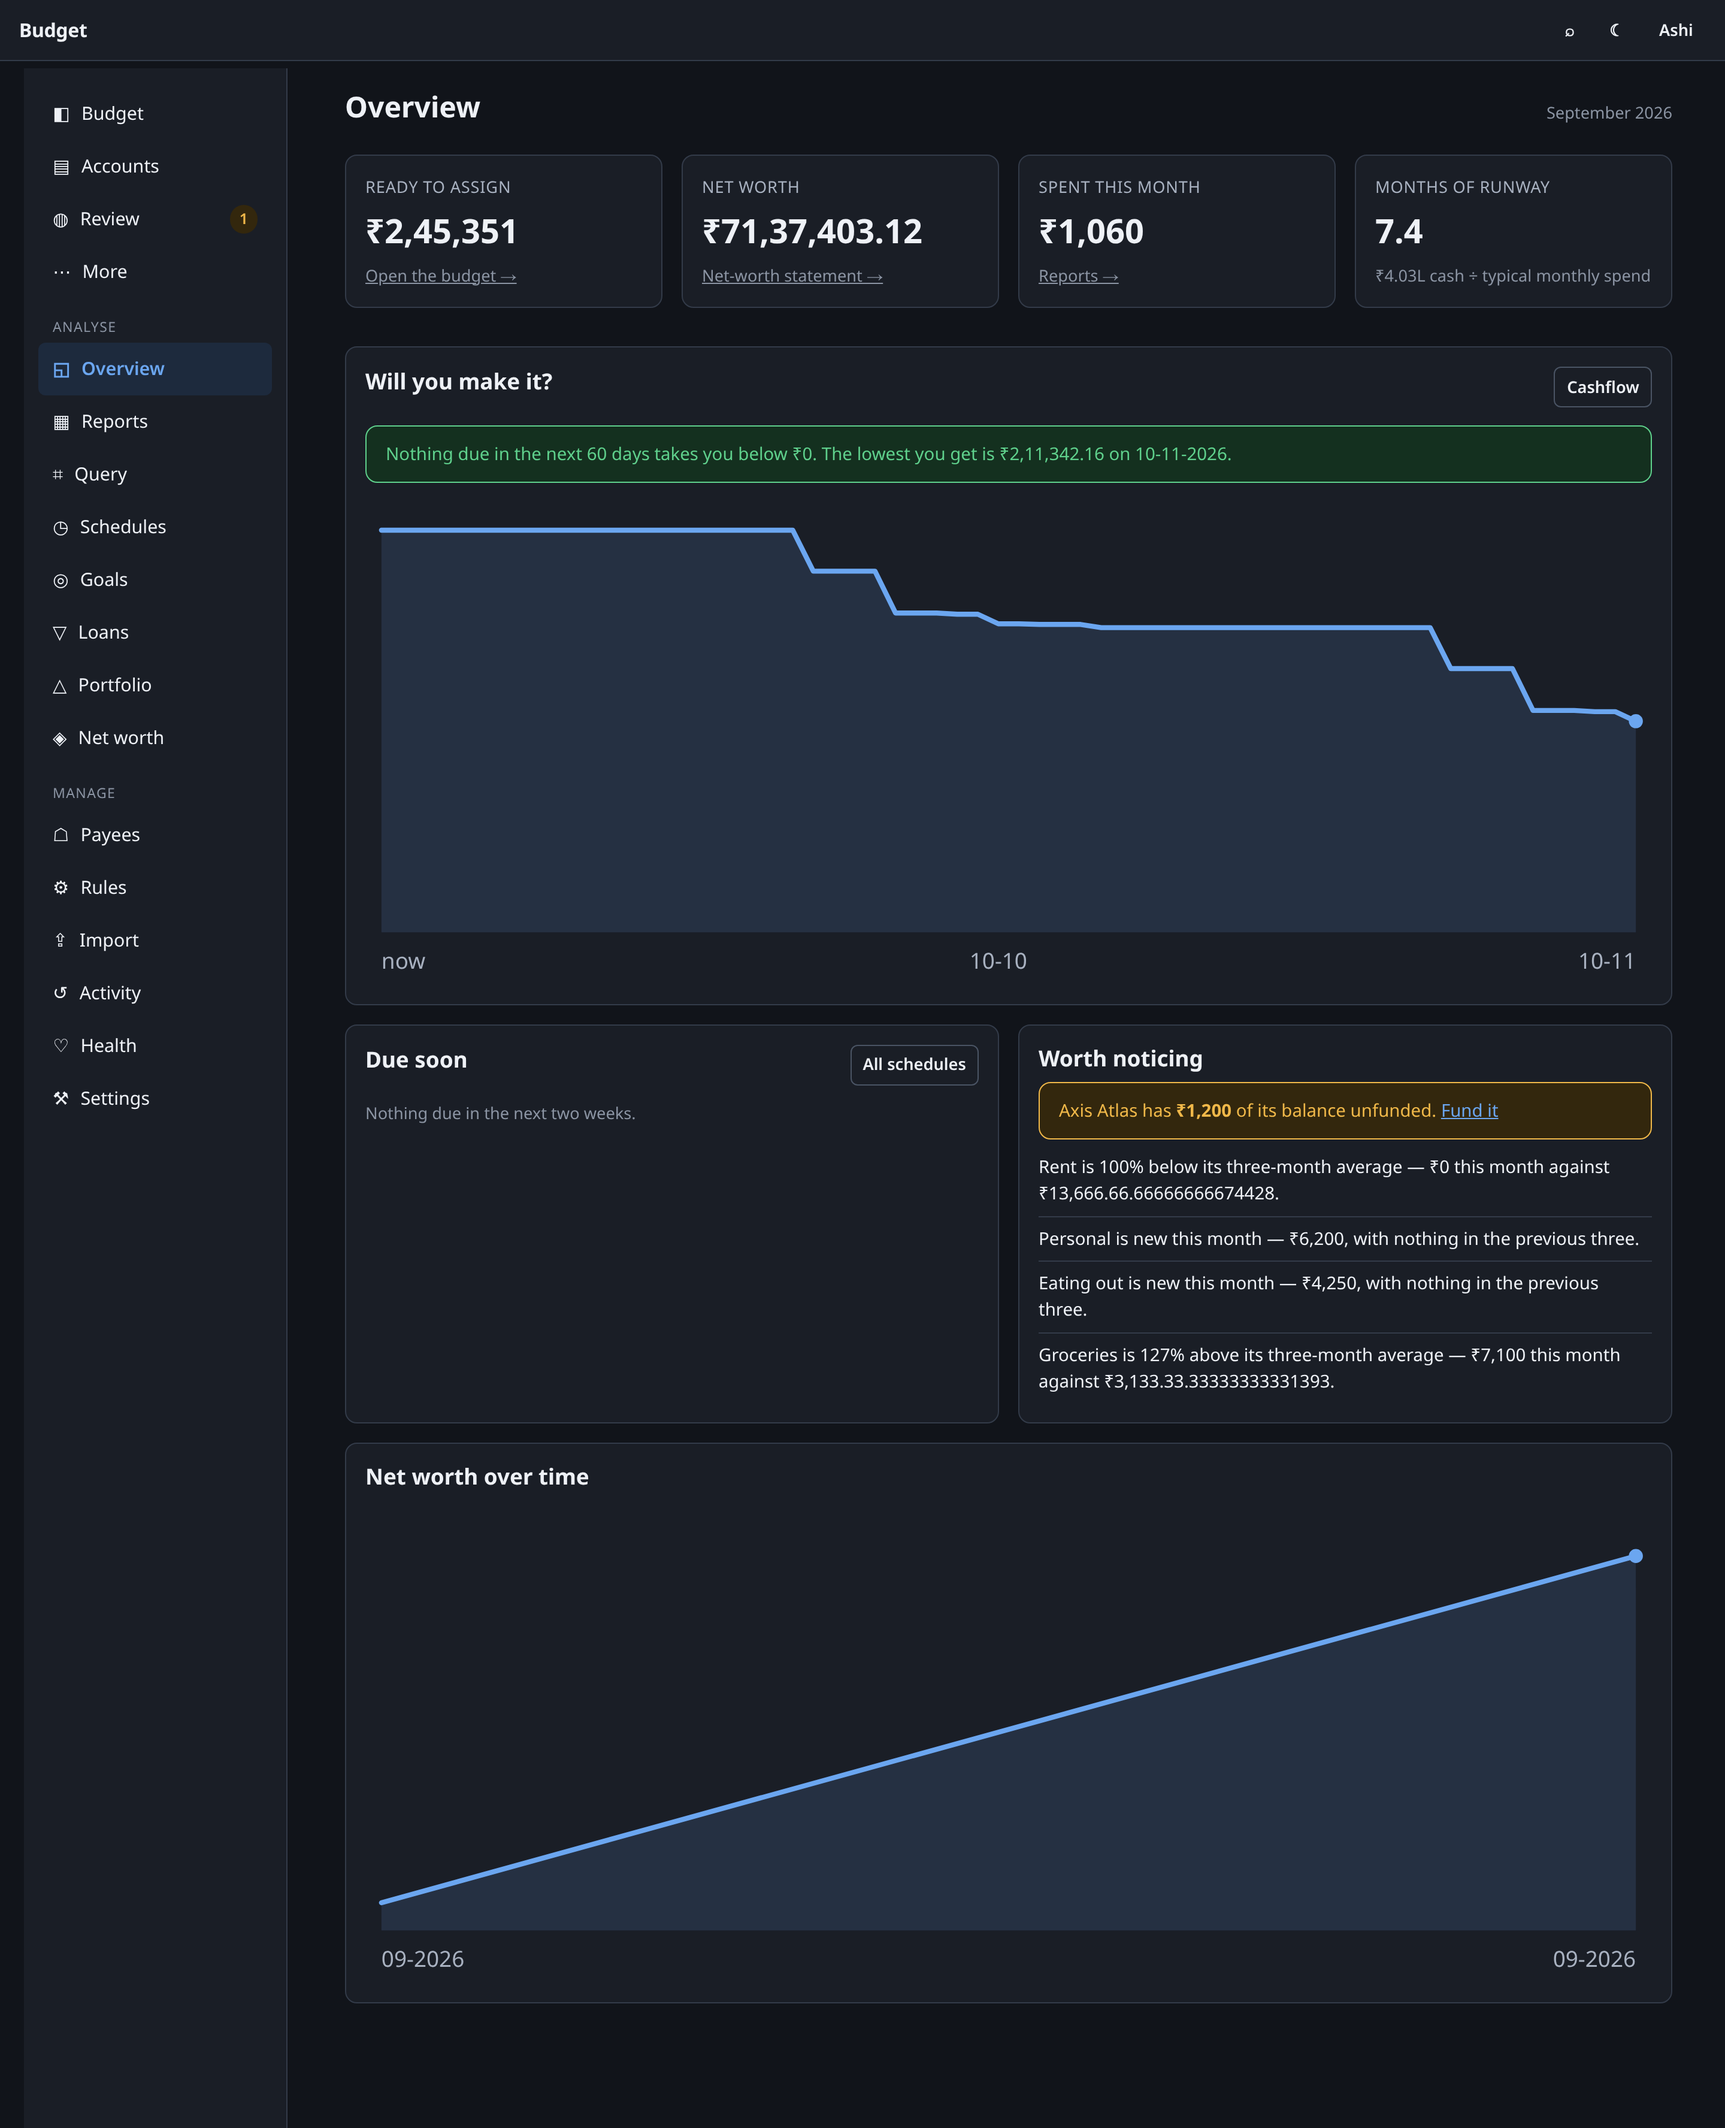
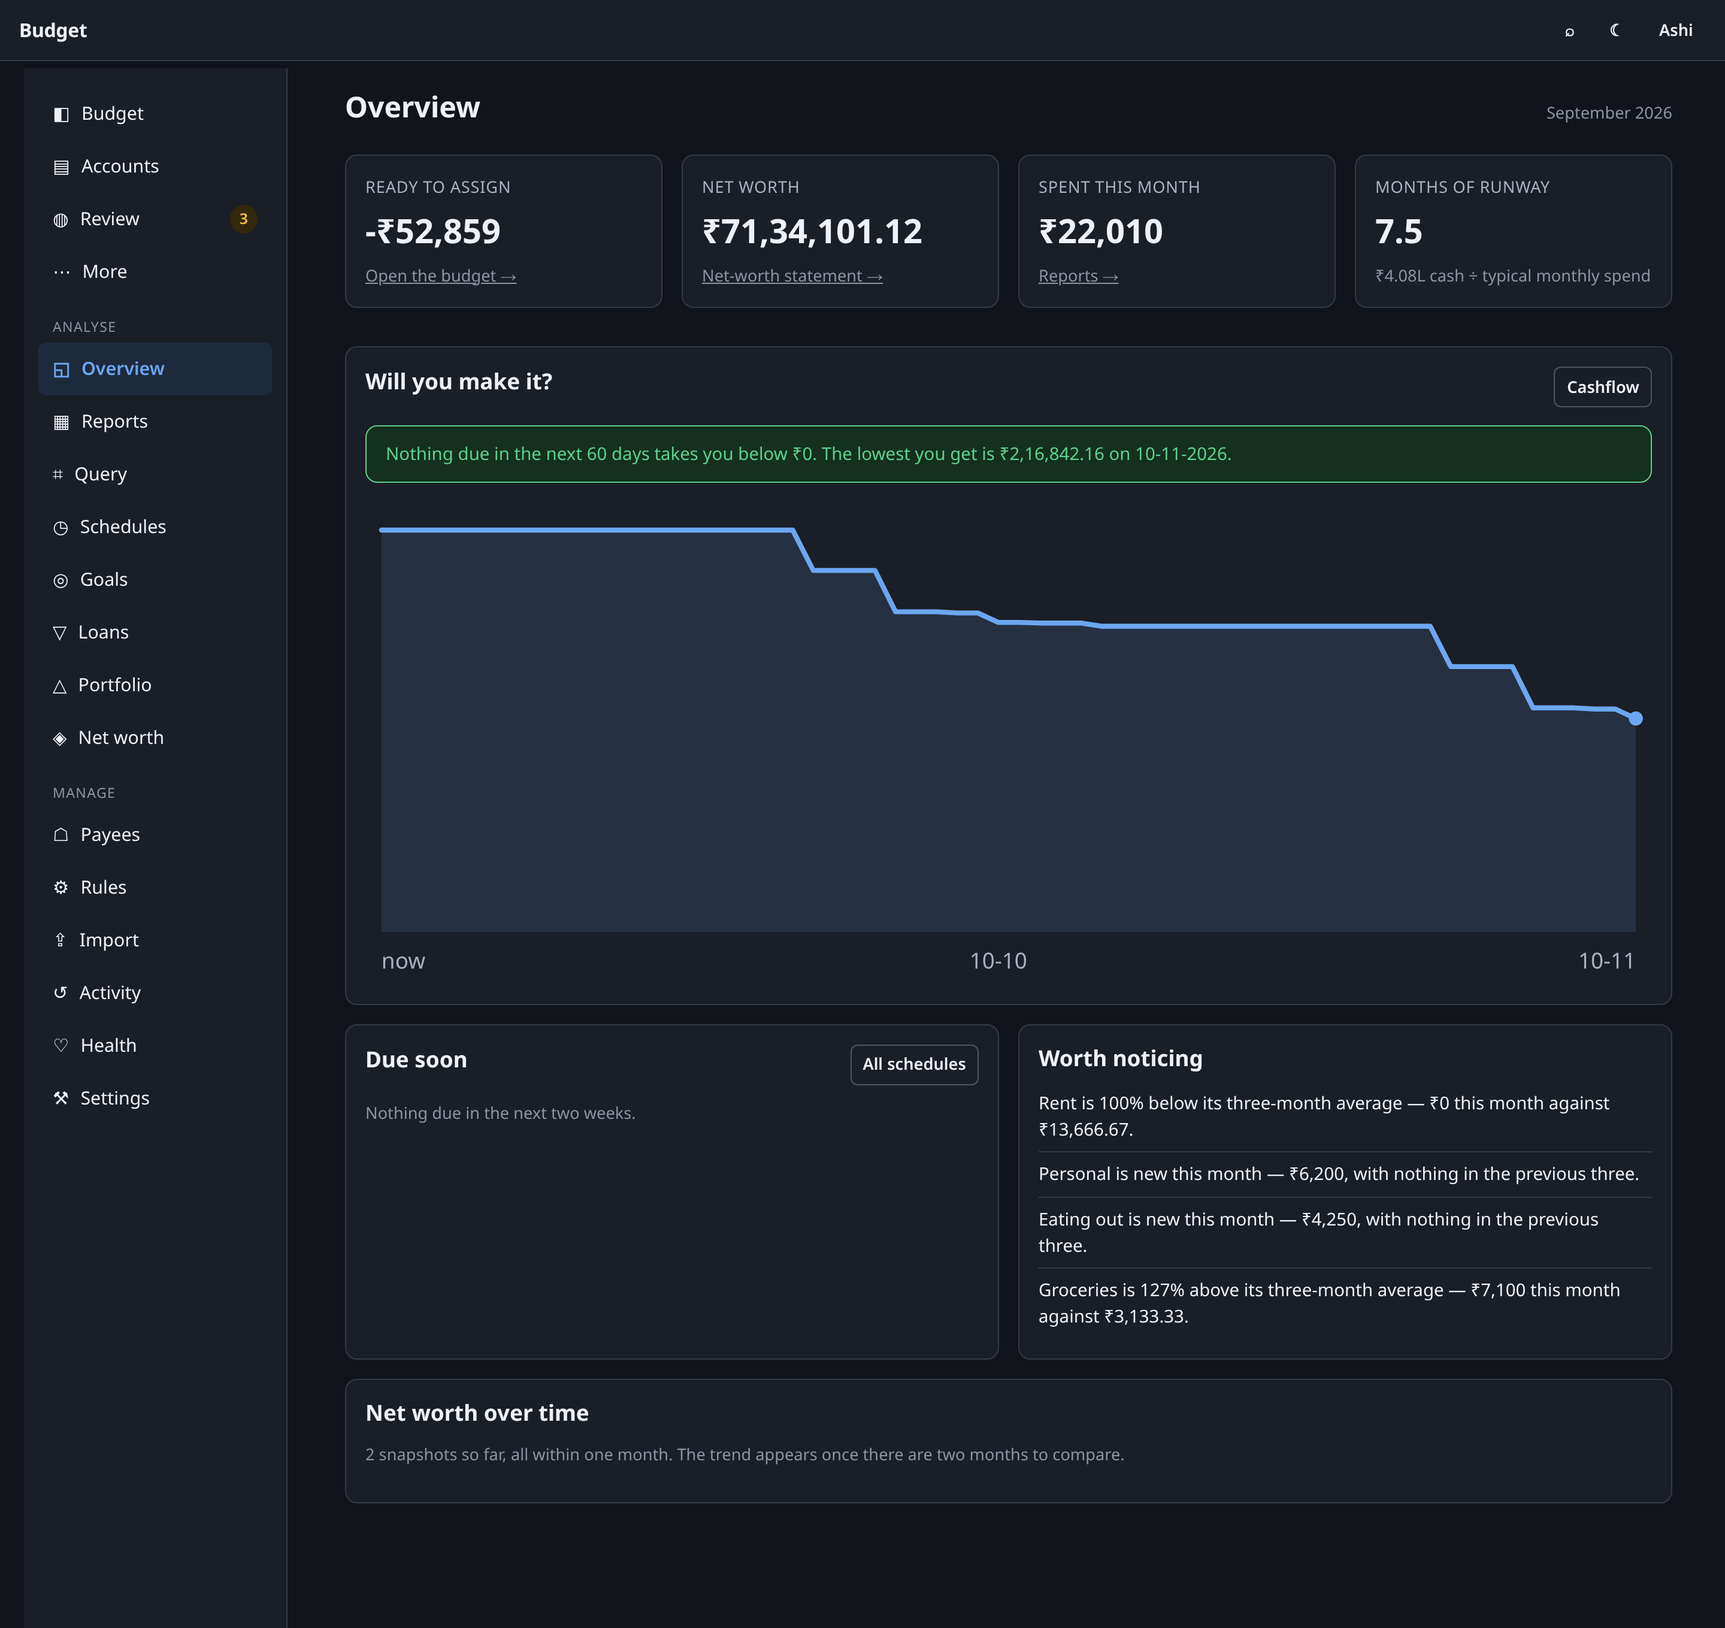
Refresh the screenshots and note what Reports and Review now carry

diff --git a/README.md b/README.md
@@ -188,6 +188,8 @@ from.
 | **Backup & verified restore** | The scheduled job restores the latest backup into a scratch DB and matches control totals; failure fires a webhook, success pings a dead-man's-switch. |
 | **Health page** | The page you open at 2am — backup status, price-feed health, flags, error counts. |
 | **Command palette** | `Cmd/Ctrl-K` from anywhere; complete and flag-aware. |
+| **Realised gains by FY** | Every sale keeps the parcels it consumed, so gains split by holding period, April to March. It reports the holding period and names no tax class — which threshold applies depends on the asset and the year's rules, and that judgement stays with whoever files. |
+| **Money you're owed** | Mark a transaction reimbursable; Review lists what is outstanding until it comes back. |
 | **Universal undo** | Every action undoes within 30 days, from the event log, on [Activity](#screens). An undo is recorded as its own entry — nothing is edited or deleted. Where later edits touched the same record, it shows what it would discard before it does it, and it refuses outright when the record is load-bearing for a loan instalment, a portfolio lot or a reconciliation. |
 
 ---
@@ -318,9 +320,9 @@ with the demo data.
 | **Accounts** | `/accounts` | Every account with cleared/uncleared/working balances; each opens a register. |
 | **Register** | `/accounts/:id` | A running-balance transaction list for one account, with reconcile. |
 | **Transaction** | `/transaction/:id` | Edit, splits, tags, owner; raw imported values; full event history; **receipts**. |
-| **Review** | `/review` | Everything imported awaiting confirmation: imports, suspected duplicates, uncategorised, overspent, unfunded cards, proposed rules. |
+| **Review** | `/review` | Everything awaiting a decision: imports, suspected duplicates, uncategorised (filed inline), overspent, unfunded cards, proposed rules, and money you're owed. |
 | **Import** | `/import` | CSV paste / statement-PDF upload with password hints; saved mappings. |
-| **Reports** | `/reports` | Income vs. spend, category trends, loan interest by FY. |
+| **Reports** | `/reports` | Income vs. spend, category trends, loan interest by FY, realised gains by FY split by holding period. |
 | **Query** | `/query` | The filterable, groupable table; CSV export. |
 | **Schedules** | `/schedules` | Recurring items and the forward cashflow calendar. |
 | **Goals** | `/goals` | Long-horizon savings with progress rings. |
